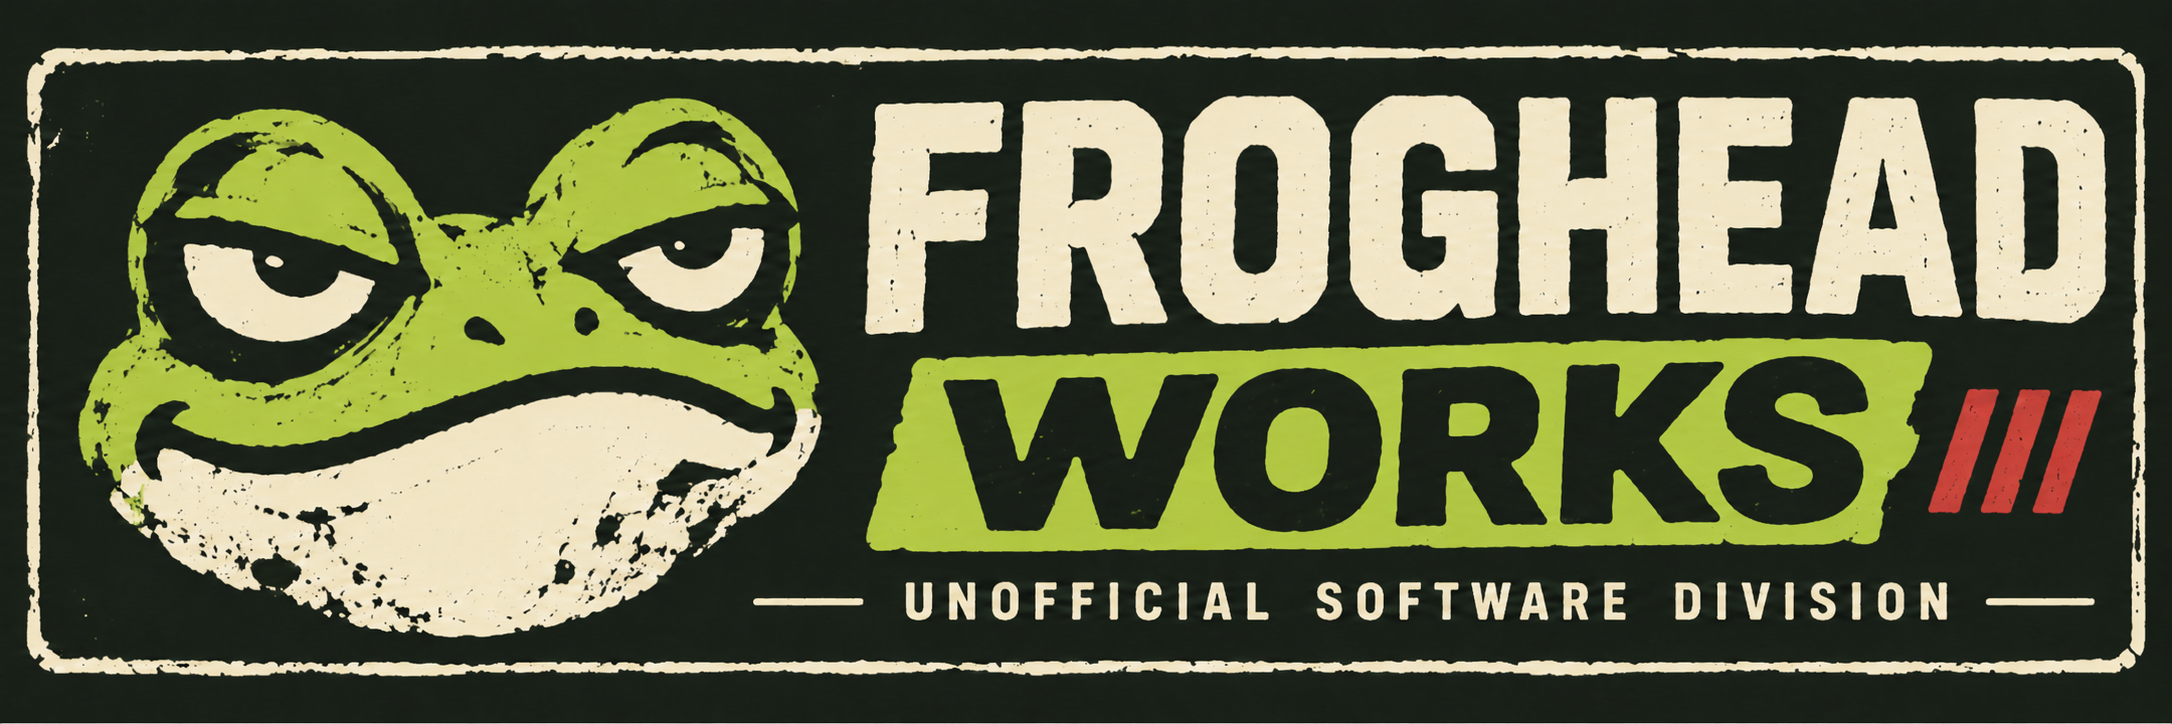
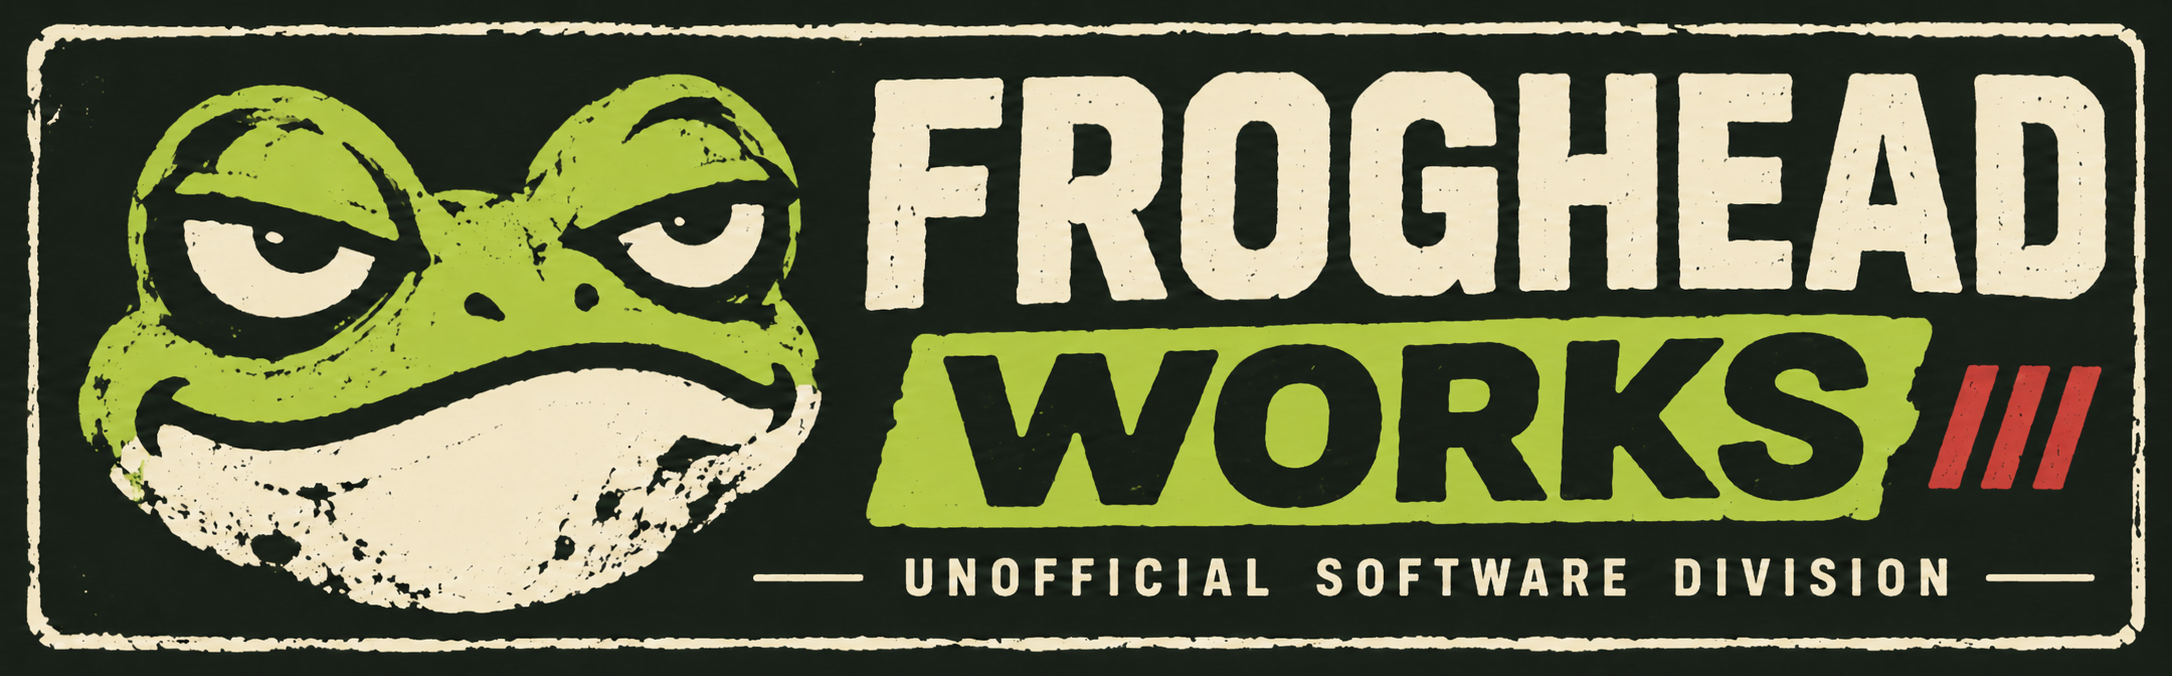
repo images and readme changes

diff --git a/README.md b/README.md
@@ -1,136 +1,146 @@
 <p align="center">
-  <img src="docs/images/froghead-works-banner.png" width="720" alt="Froghead Works — Independent Software Workshop">
-</p>
-
-<p align="center">
-  <img src="docs/images/streamoscope-icon.svg" width="90" alt="StreamoScope app icon">
+  <img src="docs/images/froghead-works-banner.png" width="650" alt="Froghead Works — independent software workshop">
 </p>
 
 <h1 align="center">StreamoScope</h1>
 
 <p align="center">
-  <strong>Your stream, under observation.</strong><br>
-  A live monitoring dock for <a href="https://obsproject.com/">OBS Studio</a>.<br>
-  Built by <strong>Froghead Works</strong> — an independent software workshop.
+  <strong>Every live stream. One dock.</strong><br>
+  Real-time stats for all active OBS streams — no matter what started them.<br>
+  <sub>Made by <strong>Froghead Works</strong> · Unofficial software. Officially useful.</sub>
 </p>
 
 <p align="center">
   <a href="https://github.com/tjnk24/streamoscope/releases">Download</a> ·
-  <a href="#installation">Installation</a> ·
-  <a href="#what-it-monitors">Features</a> ·
-  <a href="#known-limitations">Limitations</a> ·
-  <a href="https://github.com/tjnk24/streamoscope/issues">Report an issue</a>
+  <a href="#installation">Install</a> ·
+  <a href="#what-you-can-see">Features</a> ·
+  <a href="#limitations">Limitations</a> ·
+  <a href="https://github.com/tjnk24/streamoscope/issues">Report a bug</a>
 </p>
 
 ---
 
-OBS says you're live. Good. But what's your bitrate doing? Are frames disappearing? Is the encoder quietly having a breakdown?
+## Your streams don't all come from the same place. Your stats should.
 
-**StreamoScope keeps an eye on your stream's vital statistics while you focus on the actual show.** It sits inside OBS, watches your main stream and supported additional outputs, and gives the important numbers a place of their own.
+Running multiple streams from one OBS instance? You shouldn't have to open a separate stats panel for every plugin — or guess which stream is having a bad day.
 
-It won't fix your internet connection. We filed a complaint with the internet. No response yet.
+**StreamoScope shows the live statistics of all running streams in a single OBS dock.** Whether an output comes from **OBS itself**, **obs-multi-rtmp**, or **another output plugin**, StreamoScope doesn't need to know your streaming setup in advance. It monitors the running outputs OBS exposes, not a fixed list of supported streaming plugins.
+
+**One place. Every live stream. No plugin loyalty.**
 
 <p align="center">
-  <img src="docs/images/streamoscope-dock.png" alt="StreamoScope — OBS dock with four streaming outputs and the OBS card" width="720">
+  <img src="docs/images/stats-wide.png" width="700" alt="StreamoScope wide dock: four simultaneous streams with live bitrate and dropped-frame statistics">
 </p>
-<p align="center"><sub>Example data shown. Your actual stream may be less cooperative.</sub></p>
+<p align="center"><sub>Four streams, four sets of stats, one less reason to panic.</sub></p>
 
-## What it monitors
+## Why StreamoScope?
 
-- **Live bitrate:** current readings and a two-minute history chart for detectable outputs.
-- **Dropped frames:** totals, recent network drops, congestion, connection health and reconnecting status.
-- **Streaming destinations:** the main OBS output and supported additional outputs, with platform detection where available.
-- **OBS performance:** FPS, rendering time, encoding skips, rendering misses, CPU usage and OBS memory.
-- **Extra hardware stats on Windows:** GPU usage, hardware encoder load, VRAM and system memory using the optional Lua bridge.
-- **Useful extras:** built-in diagnostics, a mock/demo mode, signed update verification and update prompts inside the dock.
-- **Five interface languages:** English, Russian, Spanish, German and Brazilian Portuguese.
+- **All your streams, side by side.** See native OBS and third-party streaming outputs together, even when different plugins started them.
+- **Live stats per output.** Check bitrate, recent bitrate history, dropped network frames, connection status, uptime and congestion without switching panels.
+- **No plugin-specific setup.** StreamoScope is a monitor, not another multistream manager. It doesn't launch, encode or configure your streams.
+- **Built into OBS.** A dock that stays where you work, with a compact or wide layout.
+- **Bonus: OBS and PC health.** Keep an eye on performance problems beyond your network connection.
 
-Platform detection includes services such as YouTube, Twitch, Kick, VK Video Live, VK Video, Rutube, Telegram, Facebook and Trovo, where the output provides enough information to identify them.
+The destination might be YouTube, Twitch, Kick, VK Video Live or somewhere else entirely. **How a stream was started isn't the point. Whether it's running — and how it's doing — is.**
+
+## What you can see
+
+| Every active streaming output | OBS and system |
+| --- | --- |
+| Current bitrate and two-minute graph | FPS and frame time |
+| Dropped network frames: total and recent | Encoding and rendering lag |
+| Live / unstable / reconnecting status | CPU usage and OBS memory |
+| Uptime and network congestion | GPU usage, encoder load, VRAM and system RAM¹ |
+| Detected platform and output source, when available | Diagnostics, mock mode and update checks |
+
+¹ Additional hardware readings require the optional Lua bridge on Windows.
+
+The interface supports **English, Russian, Spanish, German and Brazilian Portuguese**.
+
+<p align="center">
+  <img src="docs/images/stats-narrow.png" width="280" alt="StreamoScope compact layout showing multiple stream cards and OBS performance">
+</p>
 
 > [!NOTE]
-> StreamoScope is a **monitor**, not a streaming service, encoder or repair tool. It reports problems; solving them is regrettably still a human responsibility.
+> StreamoScope monitors existing streams. It does **not** start streams, replace multistream plugins or fix your ISP. We're still waiting for the ISP to return our calls.
 
 ## Installation
 
-### Windows installer — recommended
+### Windows installer (recommended)
 
-**You'll need:** OBS Studio **28+**, with its built-in obs-websocket 5 server. The installer is intended for **64-bit Windows 10/11**. Development and testing have been done with OBS 33 on Windows.
+**Requirements:** OBS Studio **28+**, with the built-in **obs-websocket 5** server; **64-bit Windows 10 or 11** for the installer.
 
-1. Download the latest `streamoscope-setup-<version>.exe` from [GitHub Releases](https://github.com/tjnk24/streamoscope/releases).
-2. **Close OBS** and run the installer. Administrator privileges aren't required.
-3. Start OBS and open **Docks → StreamoScope** if the dock isn't already visible.
-4. Enter your OBS WebSocket connection details. Find them under **Tools → WebSocket Server Settings → Show Connect Info** (usually port `4455`).
+1. Download the latest `streamoscope-setup-<version>.exe` from [Releases](https://github.com/tjnk24/streamoscope/releases).
+2. **Close OBS**, then run the installer (no administrator privileges required).
+3. Open OBS. If the dock isn't visible, go to **Docks → StreamoScope**.
+4. If prompted, enter the OBS WebSocket connection details from **Tools → WebSocket Server Settings → Show Connect Info** (port `4455` by default).
 
-That's it. Your stream is now under observation.
+**Done.** Start your streams however you normally do. StreamoScope watches the ones it can see through OBS — no need to select a separate integration for each output plugin.
 
 > [!IMPORTANT]
 > **Coming from obs-stats-widget 0.x?** StreamoScope 0.3.0 is the same dock under its new name, and older versions can't update to it by themselves. Close OBS and run the new installer once: it removes obs-stats-widget first, and your saved password and settings come along.
 
-The installer puts the dock and Lua bridge in `%LOCALAPPDATA%\Programs\streamoscope`, registers an uninstall entry, and configures the OBS dock and script. It saves backups in `%LOCALAPPDATA%\streamoscope\backups` and logs configuration steps to `%LOCALAPPDATA%\streamoscope\configure-obs.log`.
+The installer places files in `%LOCALAPPDATA%\Programs\streamoscope`, configures the dock and Lua bridge, keeps backups in `%LOCALAPPDATA%\streamoscope\backups`, and writes a setup log to `%LOCALAPPDATA%\streamoscope\configure-obs.log`.
 
-If OBS has never been started on this computer, launch it once, close it, then run the installer again. You may need to enable the WebSocket server in OBS yourself.
+If OBS has never been launched on your PC, open it once, close it, then rerun the installer. You might need to enable its WebSocket server manually.
 
-**Updates:** the dock can check for releases and offer an update. The updater verifies a minisign signature and won't start installation while OBS is streaming or recording. **Uninstall:** close OBS, then use Windows **Settings → Apps → StreamoScope**. The uninstaller leaves OBS WebSocket enabled in case other tools use it.
+**Updates:** the dock can check for new releases and offers signature-verified updates; it won't start an installation while OBS is streaming or recording. **Uninstall:** close OBS and remove **StreamoScope** via **Windows Settings → Apps**.
 
-### Manual installation — ZIP / portable OBS
+### Manual / portable installation
 
-Prefer to do it yourself? We respect that kind of stubbornness.
-
-1. Download `streamoscope-<version>.zip` from [Releases](https://github.com/tjnk24/streamoscope/releases) and extract it into a permanent folder.
+1. Download `streamoscope-<version>.zip` from [Releases](https://github.com/tjnk24/streamoscope/releases) and extract it to a permanent folder.
 2. In OBS, enable **Tools → WebSocket Server Settings → Enable WebSocket server**.
-3. Open **Docks → Custom Browser Docks** and create a dock pointing to the extracted `dock/index.html` using a `file:///` URL:
+3. Go to **Docks → Custom Browser Docks** and point a new dock to `dock/index.html` using a `file:///` URL:
 
    ```text
    file:///C:/path/to/streamoscope/dock/index.html
    ```
 
-4. **Recommended:** open **Tools → Scripts**, add `streamoscope-bridge.lua` and keep its accompanying `streamoscope-bridge` folder next to the Lua file. Repeat in each scene collection you stream from.
-5. Enter your OBS WebSocket port and password in the dock.
+4. **Recommended:** under **Tools → Scripts**, add `streamoscope-bridge.lua`, keeping its `streamoscope-bridge` support folder alongside it. Add the script to each OBS scene collection you use.
+5. Connect the dock using your OBS WebSocket port and password.
 
-For a manual update, replace the extracted files with those from the new ZIP and press **Ctrl+R** in the dock.
+To update a manual installation, replace the files and refresh the dock with **Ctrl+R**.
 
-## How it works
+## How it finds streams
 
-StreamoScope talks to OBS through its **built-in WebSocket server**. It doesn't require installing a custom OBS plugin.
+StreamoScope uses OBS's built-in WebSocket server together with an optional **Lua bridge** to monitor active outputs and enrich the available information. It isn't tied to one particular multistream plugin or a preapproved list of destinations.
 
-The optional **Lua bridge** fills in details that WebSocket doesn't provide on its own: identifying supported additional output platforms, reporting extra Windows hardware stats, and opening or launching local update-related actions. Platform identification uses the server protocol and hostname, **not stream keys or URL paths**.
+The bridge can add output labels, platform identification and Windows hardware metrics that WebSocket alone may not supply. Missing metadata doesn't necessarily mean a stream isn't being monitored: some outputs may simply be labeled **Plugin**.
 
-Without the bridge, the dock still works, but some output labels and hardware readings may be unavailable.
+For platform detection, the bridge uses protocol and hostname information, not stream keys or URL paths.
 
-## Settings and privacy
+## Limitations
 
-Use the dock's **gear icon** to select a language, toggle the OBS statistics card, try mock mode, manage update checks or copy diagnostics for a bug report.
+- **OBS must expose the output.** Plugin-independent does not mean API-independent: if an output plugin doesn't make an output or its statistics available to OBS, StreamoScope cannot invent the missing numbers.
+- **Output identity may be ambiguous.** If a plugin reports several streams using indistinguishable output identifiers, OBS might not provide separate statistics for each one. StreamoScope displays what can be reliably distinguished.
+- **Labels are best-effort.** Unrecognized services can appear as **Plugin** rather than a platform name.
+- **Windows-only extra hardware stats.** GPU, encoder, VRAM and system-memory readings depend on Windows and the Lua bridge.
+- **Manual installs update manually.** The integrated installer/updater workflow depends on the installed bridge.
 
-- **Local connection:** the dock normally connects to OBS at `127.0.0.1`.
-- **Release checks:** when enabled, it checks `api.github.com` at startup and approximately once a day; otherwise you can check manually.
-- **Credentials:** the OBS WebSocket password is kept in the dock's local browser storage. Stream keys aren't read.
-- **Diagnostics:** generated reports exclude passwords, stream keys and server addresses.
+## Settings, privacy and troubleshooting
 
-There is no separate account or hosted StreamoScope service. The program runs inside your OBS setup.
+Use the dock's **gear icon** to change language, show or hide OBS statistics, try mock mode, check for updates or copy diagnostics.
 
-## Known limitations
+- The OBS WebSocket connection normally uses `127.0.0.1`.
+- Release checks, when enabled, contact `api.github.com` on startup and roughly once per day; manual checks are also available.
+- The WebSocket password stays in the dock's local browser storage. Stream keys are not read.
+- Diagnostic exports exclude passwords, stream keys and server addresses.
+- No separate StreamoScope account or cloud service is needed.
 
-- **Multiple `obs-multi-rtmp` targets:** this plugin may report several targets under the same `multi-output` name. OBS WebSocket can then expose statistics for only one of them. StreamoScope warns about the ambiguity rather than inventing separate readings.
-- **Unidentified plugin outputs:** some additional outputs may appear simply as **Plugin**.
-- **Windows-only extra hardware metrics:** GPU, encoder, VRAM and system-memory readings require Windows and the Lua bridge.
-- **Manual ZIP updates:** replace the files yourself; the bundled automatic updater depends on the installed bridge.
-
-## Troubleshooting
-
-| Problem | First thing to check |
+| Problem | Try this first |
 | --- | --- |
-| Can't find the dock | **Docks → StreamoScope** in OBS |
-| Dock won't connect | Enable OBS WebSocket and confirm the port (usually `4455`) |
-| WebSocket password rejected | **Tools → WebSocket Server Settings → Show Connect Info** |
-| Platform names or GPU data are missing | Load `streamoscope-bridge.lua` in the active scene collection |
-| Installer couldn't configure OBS | Check `%LOCALAPPDATA%\streamoscope\configure-obs.log` and rerun with OBS closed |
-| Manually built dock looks stale | Rebuild with `npm run build:prod` and refresh the dock with **Ctrl+R** |
+| Dock is missing | **Docks → StreamoScope** |
+| Can't connect | Enable OBS WebSocket; check port and password |
+| Some platform names are generic | Check the Lua bridge is loaded in the active scene collection |
+| GPU stats are missing | Check the Lua bridge on Windows |
+| Installer didn't configure OBS | See `%LOCALAPPDATA%\streamoscope\configure-obs.log`; rerun with OBS closed |
+| Development build looks stale | Run `npm run build:prod`, then refresh the dock |
 
-Still stuck? [Open an issue](https://github.com/tjnk24/streamoscope/issues), explain what happened and include **Settings → Diagnostics → Copy diagnostics** if possible. Please don't include passwords or stream keys.
+Still stuck? [Open an issue](https://github.com/tjnk24/streamoscope/issues), preferably with **Settings → Diagnostics → Copy diagnostics**. Please don't attach passwords or stream keys.
 
 ## Build from source
 
-You'll need **Node.js 24+**. Node 25 isn't supported by the current development server.
+Requires **Node.js 24+** (the current development server doesn't support Node 25).
 
 ```bash
 git clone https://github.com/tjnk24/streamoscope.git
@@ -139,34 +149,32 @@ npm install
 npm run build:prod
 ```
 
-Use the generated `build/index.html` and `obs-script/streamoscope-bridge.lua` for a manual installation. For a development server, run `npm run start:dev` (default port `3062`); `npm test` runs lint and unit checks.
+The built dock is in `build/`; the bridge is in `obs-script/streamoscope-bridge.lua`. For local development use `npm run start:dev` (default port `3062`); `npm test` runs lint and unit checks. Details: [Development and release notes](docs/DEVELOPMENT.md).
 
-Maintainers and curious people can find release building, installer testing, signed updates and other less glamorous details in [Development and release notes](docs/DEVELOPMENT.md).
+## Verify downloads
 
-## Download verification
+Releases include **minisign signatures** and **SHA-256 checksums**. The Windows installer is currently **not Authenticode-signed**, so Windows SmartScreen may warn you. Verify your download before running it.
 
-Release downloads include minisign signatures and SHA-256 checksums. The Windows installer is **not Authenticode code-signed**, so Windows SmartScreen may display a warning. Verify the download before deciding whether to run it.
-
-Using the [repository public key](minisign.pub):
+With the [public key](minisign.pub):
 
 ```bash
 minisign -Vm streamoscope-setup-<version>.exe -p minisign.pub
 ```
 
-Or compare your download's SHA-256 hash against `SHA256SUMS.txt` from the same release:
+Or compare the file hash with the release's `SHA256SUMS.txt`:
 
 ```powershell
 Get-FileHash .\streamoscope-setup-<version>.exe -Algorithm SHA256
 ```
 
-Replace `<version>` with the actual release version in the filename.
+Replace `<version>` with the actual version in the download filename.
 
 ## License and credits
 
 [MIT License](LICENSE). StreamoScope is an independent project, not an official OBS Studio product.
 
-Uses [minisign](https://github.com/jedisct1/minisign) (ISC) in the installer and [Inter](https://github.com/rsms/inter) (SIL Open Font License 1.1) as a bundled local font.
+Uses [minisign](https://github.com/jedisct1/minisign) (ISC) and the [Inter font](https://github.com/rsms/inter) (SIL OFL 1.1).
 
 ---
 
-<sub><strong>Froghead Works</strong> · Independent Software Workshop · Small tools. Mildly bad attitude.</sub>
+<sub><strong>Froghead Works</strong> · Independent Software Workshop · No plugin loyalty. No unnecessary nonsense.</sub>
